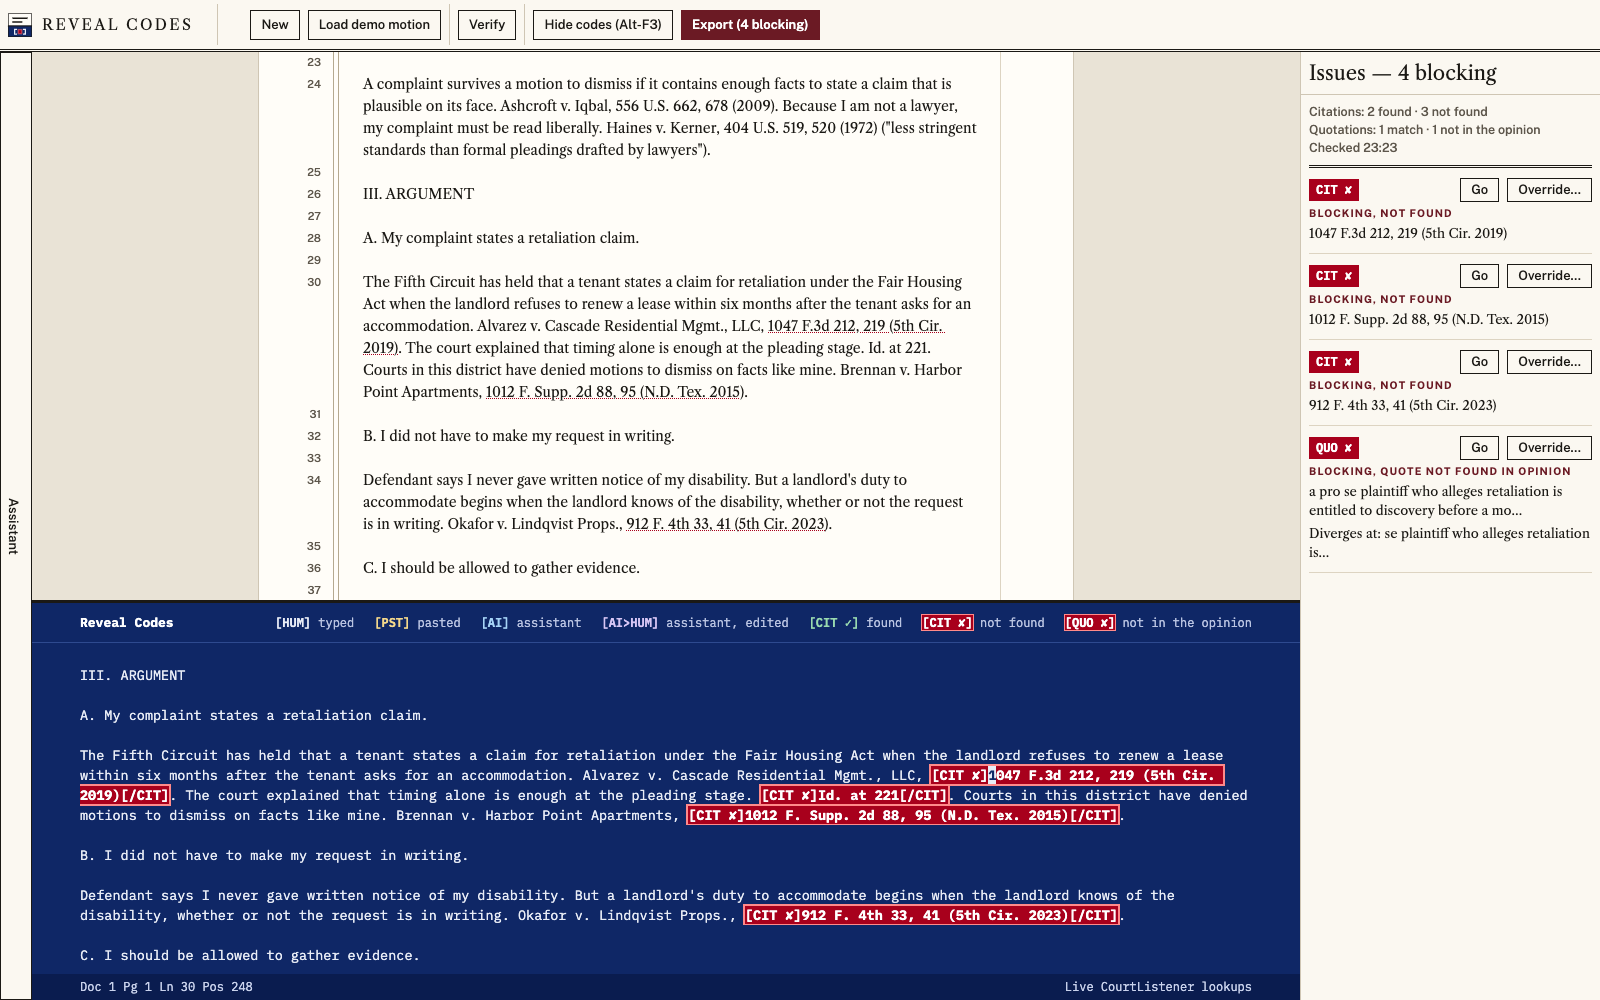
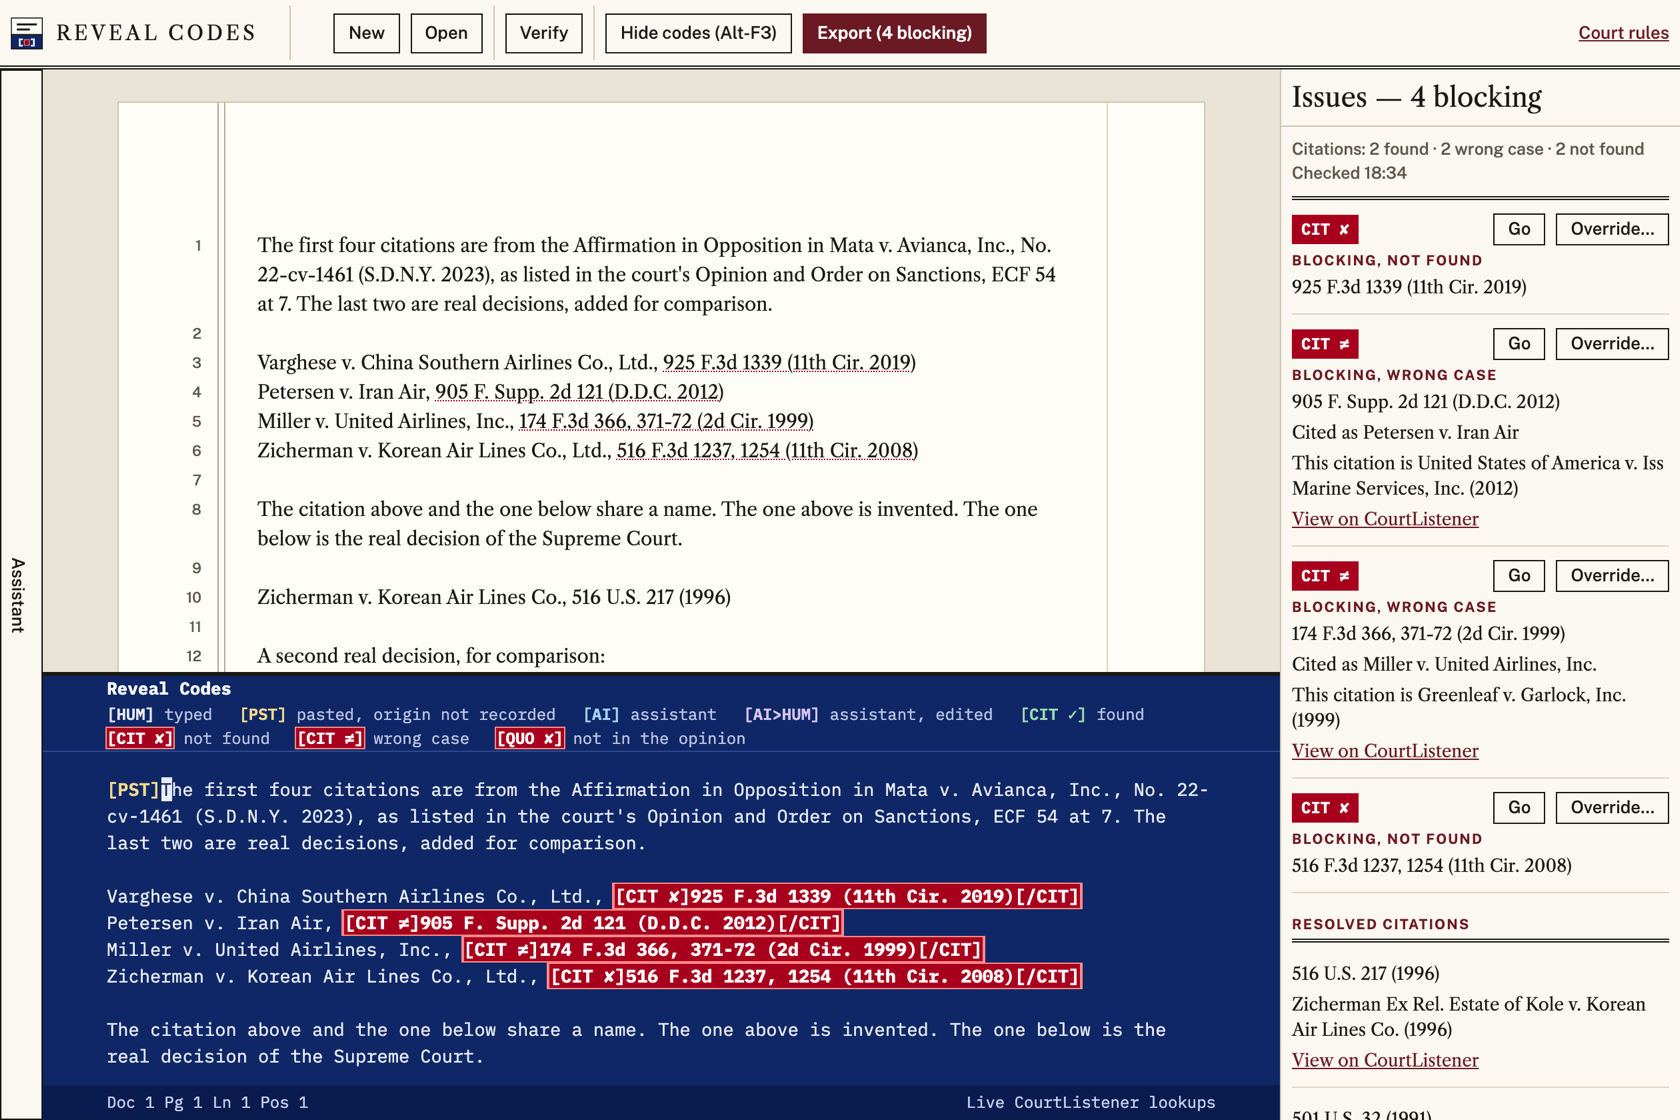
docs(readme): one-minute path, current screenshots, clearer wording

diff --git a/README.md b/README.md
@@ -6,7 +6,18 @@ A drafting editor for court filings that shows where every word came from and ca
 
 Try it at https://reveal-codes.gowthamsarveswaran.com. Built for Kiroween 2026, Resurrection category.
 
-<img src="docs/images/editor.png" alt="The editor with a verified motion: the page above, the codes pane below with four failing citations as red blocks, and the Issues list on the right">
+<img src="docs/images/editor.png" alt="The editor after Verify on the Mata v. Avianca citations: the page above, the codes pane below with four failing citations as red blocks, and the Issues list on the right naming the case each wrong citation really belongs to">
+
+## Try it in one minute
+
+No account is needed.
+
+1. Open https://reveal-codes.gowthamsarveswaran.com and select Load Mata v. Avianca, then Verify. These are citations from the 2023 brief that made AI hallucinations famous. The result reads "2 found · 2 wrong case · 2 not found". A wrong-case citation has a real volume and page that belong to a different case, and the row names that case.
+2. Look at the codes pane under the page. It prints every code inline, and Alt-F3 hides and shows it.
+3. Select Export. The button reads "Export (4 blocking)", and the download stays disabled until each red item is fixed or overridden with a written reason.
+4. Select New, then Load demo motion, to see a draft with all four origins: typed, pasted, written by the assistant, and assistant text a person then edited.
+
+On a phone, open https://reveal-codes.gowthamsarveswaran.com/check.
 
 ## Why it exists
 
@@ -24,13 +35,15 @@ WordPerfect 5.1 for DOS, in 1989, had a key that split the screen and showed eve
 
 **It ships a finished example.** Load demo motion installs a draft recorded in this editor on the hosted site on 2026-11-21, with typed, pasted, assistant and edited text, its run log and its results.
 
+<img src="docs/images/origins.png" alt="The codes pane on the demo motion, showing pasted text, a paragraph written by the assistant, assistant text the author then edited, and words the author typed">
+
 **Alt-F3 shows everything.** The codes pane opens under the page and prints the same text with every code inline. The margin numbers are the document's line numbers, the same ones the status line and the Sentinel use.
 
 **A draft can be opened from a file.** A draft can be opened from a `.docx`, `.txt` or `.md` file, and an exported `.docx` is reopened with its record; a file changed after it was exported is opened as pasted text.
 
 **Export is gated.** A filing with red codes will not export until each one is fixed or overridden with a written reason, and the reason is printed. The .docx carries the filing, an AI-Use and Verification Statement, and a Provenance Appendix that can be read back by machine.
 
-<img src="docs/images/statement.png" alt="The AI-Use and Verification Statement in the print view: the court's rule cited, a table of citations with their status, a table of quotations, and the override reasons">
+<img src="docs/images/statement.png" alt="The AI-Use and Verification Statement in the print view: a table of citations with their status, a table of quotations, and each override with the author's written reason and its time">
 
 **The statement states the record; the author states the rest.** The statement reports what the tool recorded: how text entered, which citations and quotations were checked, which overrides were written. Text that was pasted or imported has no recorded origin beyond that, so the author makes a declaration about it, and the statement prints it as the author's own. The tool never asserts on its own that no AI was used.
 
@@ -47,7 +60,7 @@ On the hosted site citations are checked live. Locally, with no token set, the a
 3. The codes pane is already open on a first visit; Alt-F3 hides and shows it.
 4. Select Verify. Two citations are found. Three are not, and one quotation is not in its opinion: they turn red in the pane, are underlined on the page, and are listed under Issues. Go jumps to each.
 5. Select Export. Choose a court, for example N.D. Tex. The dialog says how many blocking items remain and keeps Download .docx disabled.
-6. Make the declaration about the pasted text: choose Declaration_Choice_AI (generative AI was used to prepare some or all of it) and type a named tool in the tool field.
+6. Make the declaration about the pasted text: choose "Generative AI was used to prepare some or all of the pasted text" and type the tool's name in the Tool name field.
 7. Select Override… on an item and write a reason, or correct the text and Verify again. When nothing blocks, Download .docx produces the filing with its statement and appendix. The statement prints the declaration as the author's statement, with the tool you named.
 
 Open is the other way in beside Load demo motion: choose Open to start from a `.docx`, `.txt` or `.md` file of your own.
@@ -137,7 +150,7 @@ The legend:
 - While no hook event has been recorded, the Provenance hooks may be disabled, and text changed since setup cannot be attributed to the agent.
 - Windows is not supported.
 
-The full list of limits is in powers/provenance/README.md.
+The full list of limits is in [the Power's README](powers/provenance/README.md).
 
 ### Install it
 
@@ -189,7 +202,7 @@ The web app builds with webpack (`next dev --webpack`, `next build --webpack`), 
 | `apps/web`                   | The Next.js editor: page, codes pane, Issues, assistant, Export and print view.                                              |
 | `crew/sentinel`              | The Sentinel CLI that re-checks exported filings.                                                                            |
 
-Because provenance is recorded and not inferred, the engine is deterministic, so its guarantees can be stated as properties and tested: rendering a document to codes and parsing it back returns the same document; an edit never changes the origin of text it did not touch. The suite is 4,897 tests in 463 files, with 214 property-based tests in 78 files that run at 500 cases each in CI.
+Because provenance is recorded and not inferred, the engine is deterministic, so its guarantees can be stated as properties and tested: rendering a document to codes and parsing it back returns the same document; an edit never changes the origin of text it did not touch. The suite is 4,897 tests in 463 files: 4,891 run and pass, and 6 are skipped. 214 of them are property-based tests, in 78 files, that run at 500 cases each in CI.
 
 ## Built with Kiro
 
@@ -199,11 +212,12 @@ Kiro wrote the application code and tests.
 | ------------- | ---------------------------------------------------------------------------------------------------------------------------------------------------------------------------------------------------------------------------------------------------------------------------------------------------------------------------------------------------------------------- |
 | Specs         | Sixteen, each with requirements, a design with numbered properties, and a task list: provenance-engine, citation-verifier, editor-app, export-certification, shell-polish, sentinel-sweep, court-orders, first-run-and-flow, legal-record-ui, citation-check-page, case-match, court-rules-page, open-draft, pasted-text-declaration, kiro-provenance, recorded-sample |
 | Steering      | Seven files: product, structure, tech, testing, UI rules, citation handling, release runbook                                                                                                                                                                                                                                                                           |
-| Hooks         | Eight files: one commits each finished spec task, five run the edited package's tests on save, one prompts an agent to re-check the dataset when it changes, one records provenance at the start and end of each agent run                                                                                                                                             |
+| Hooks         | Eight files: one commits each finished spec task, five run the edited package's tests on save, one prompts an agent to re-check the dataset when it changes, one holds the four provenance hooks, which run when a prompt is submitted, when the agent stops, and before and after each spec task                                                                      |
 | MCP           | Two servers, both built in this repository: the CourtListener checker and the provenance record                                                                                                                                                                                                                                                                        |
 | Powers        | Two: `citation-check` and `provenance`                                                                                                                                                                                                                                                                                                                                 |
 | Custom agents | `release-checker` and `orders-curator`                                                                                                                                                                                                                                                                                                                                 |
 | Skills        | Five: `add-standing-order`, `check-citations`, `court-ai-rules`, `setup-provenance`, `reveal-codes-for-source`                                                                                                                                                                                                                                                         |
+| Kiro CLI      | Ran the `orders-curator` agent to add dataset entry 41, with the same agent file and skill as the IDE                                                                                                                                                                                                                                                                  |
 | Kiro Crew     | A separate app schedules the Sentinel (see above)                                                                                                                                                                                                                                                                                                                      |
 
 The full inventory, with the reason each file exists, is in [docs/KIRO_USAGE.md](docs/KIRO_USAGE.md). What was built when, what Kiro got wrong, and what fixed it are in [BUILD_LOG.md](BUILD_LOG.md).
